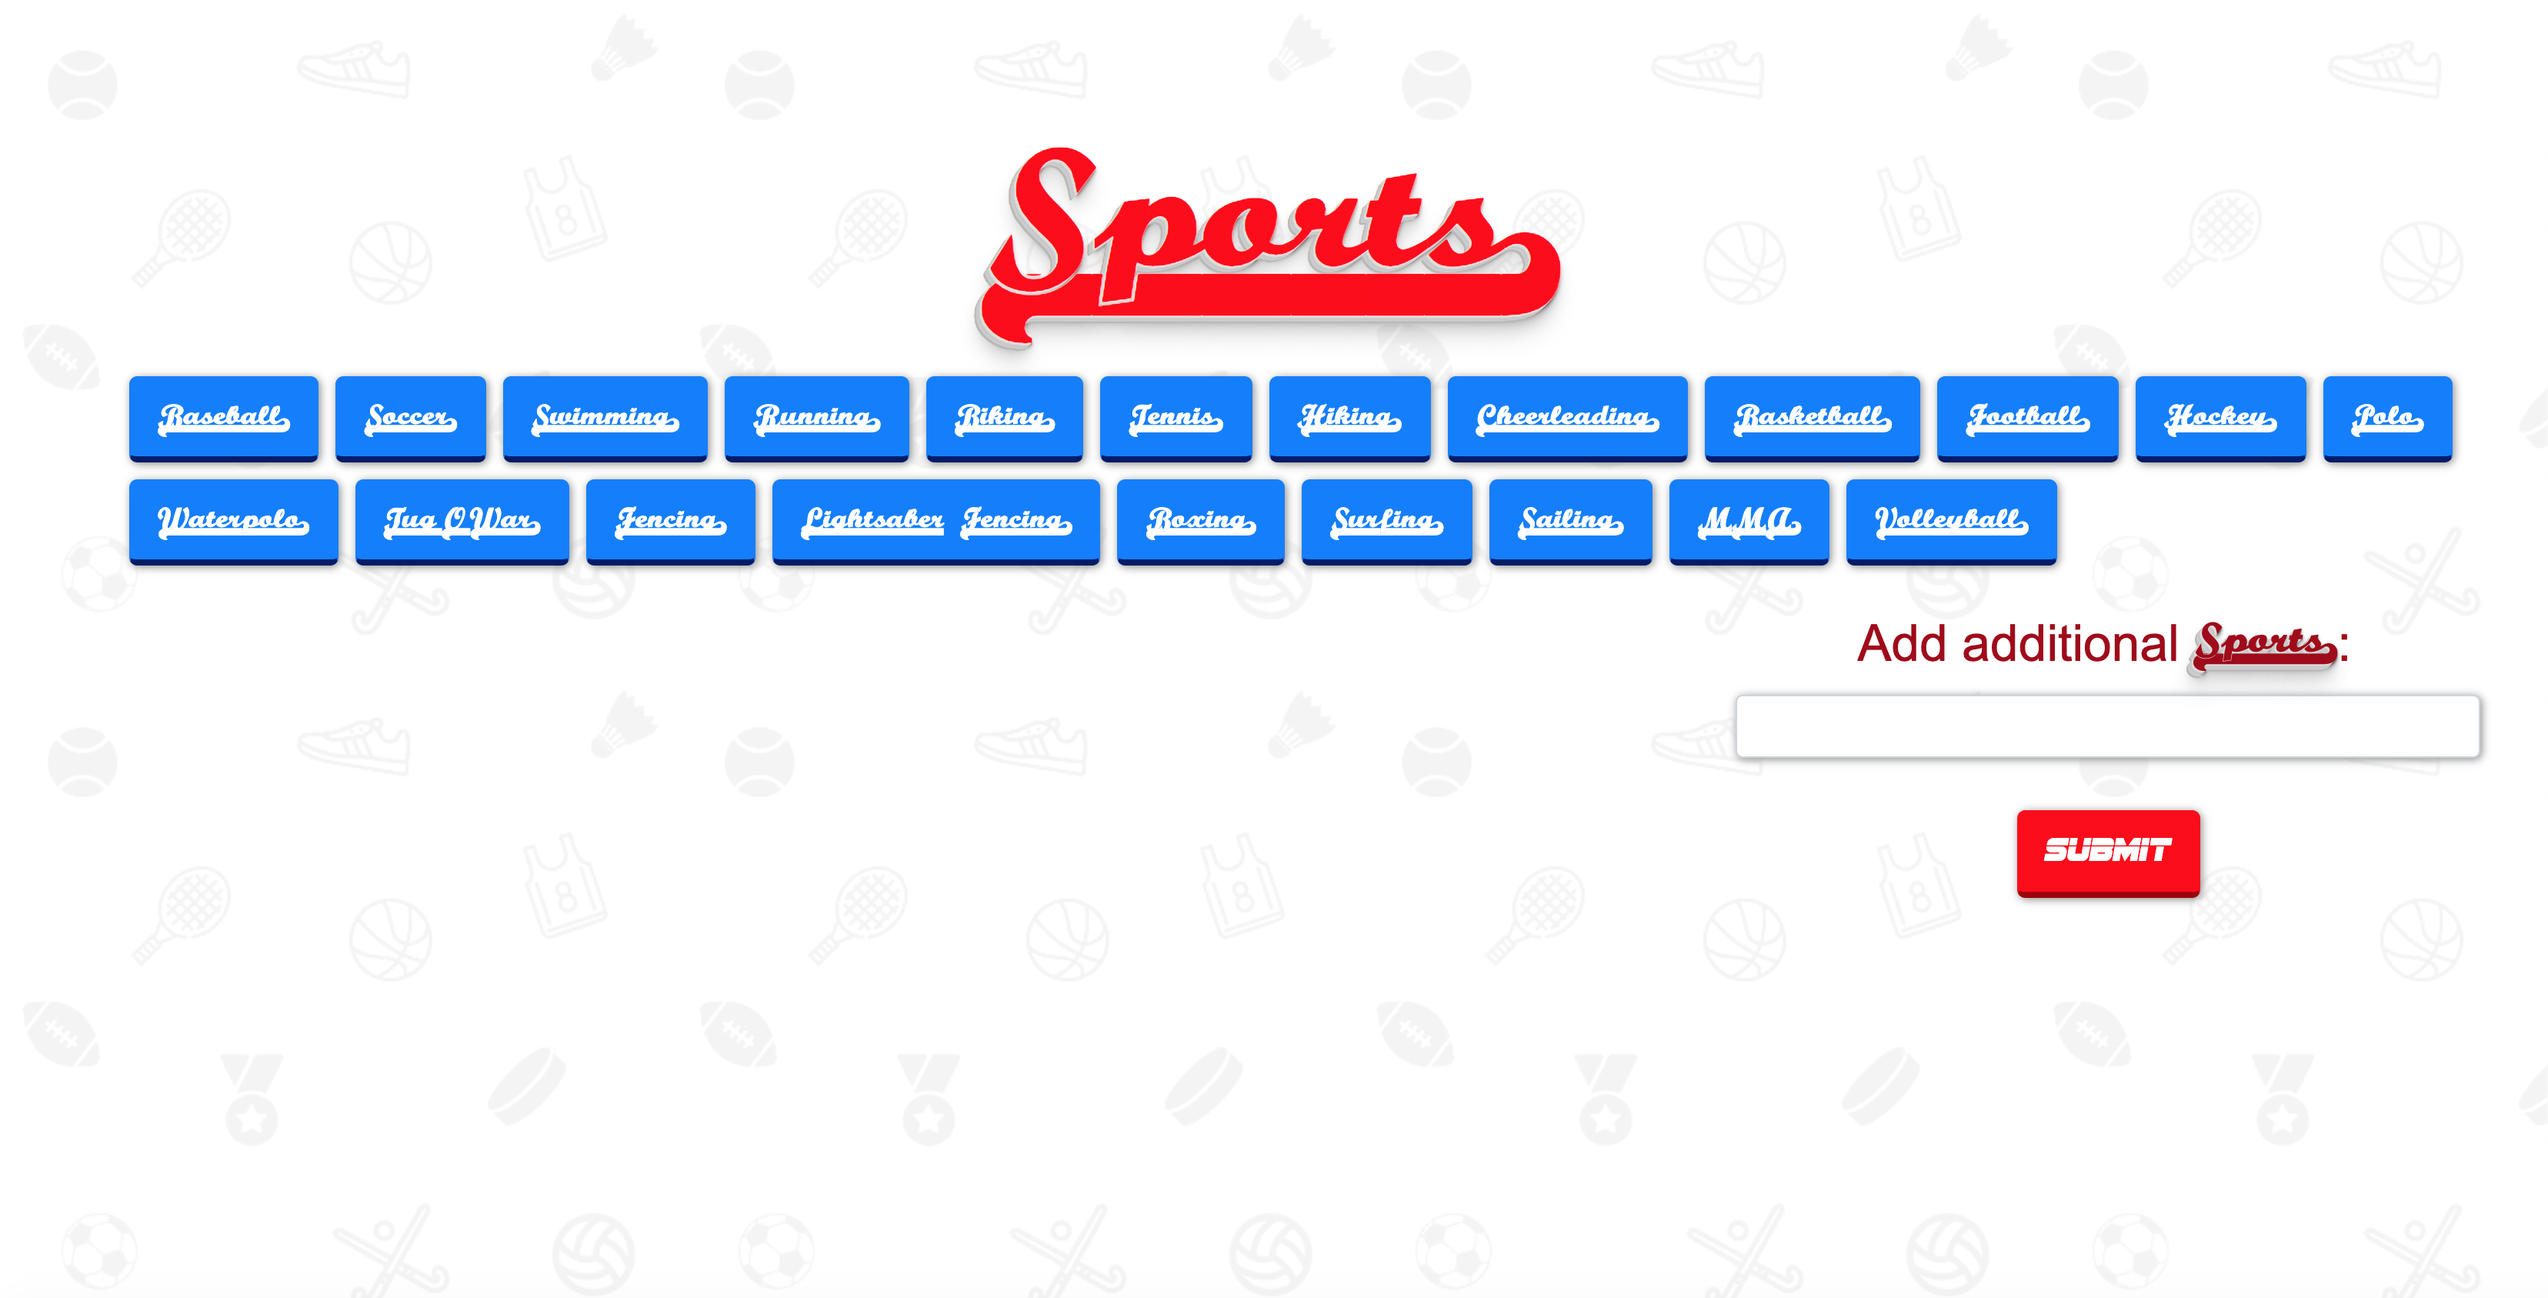
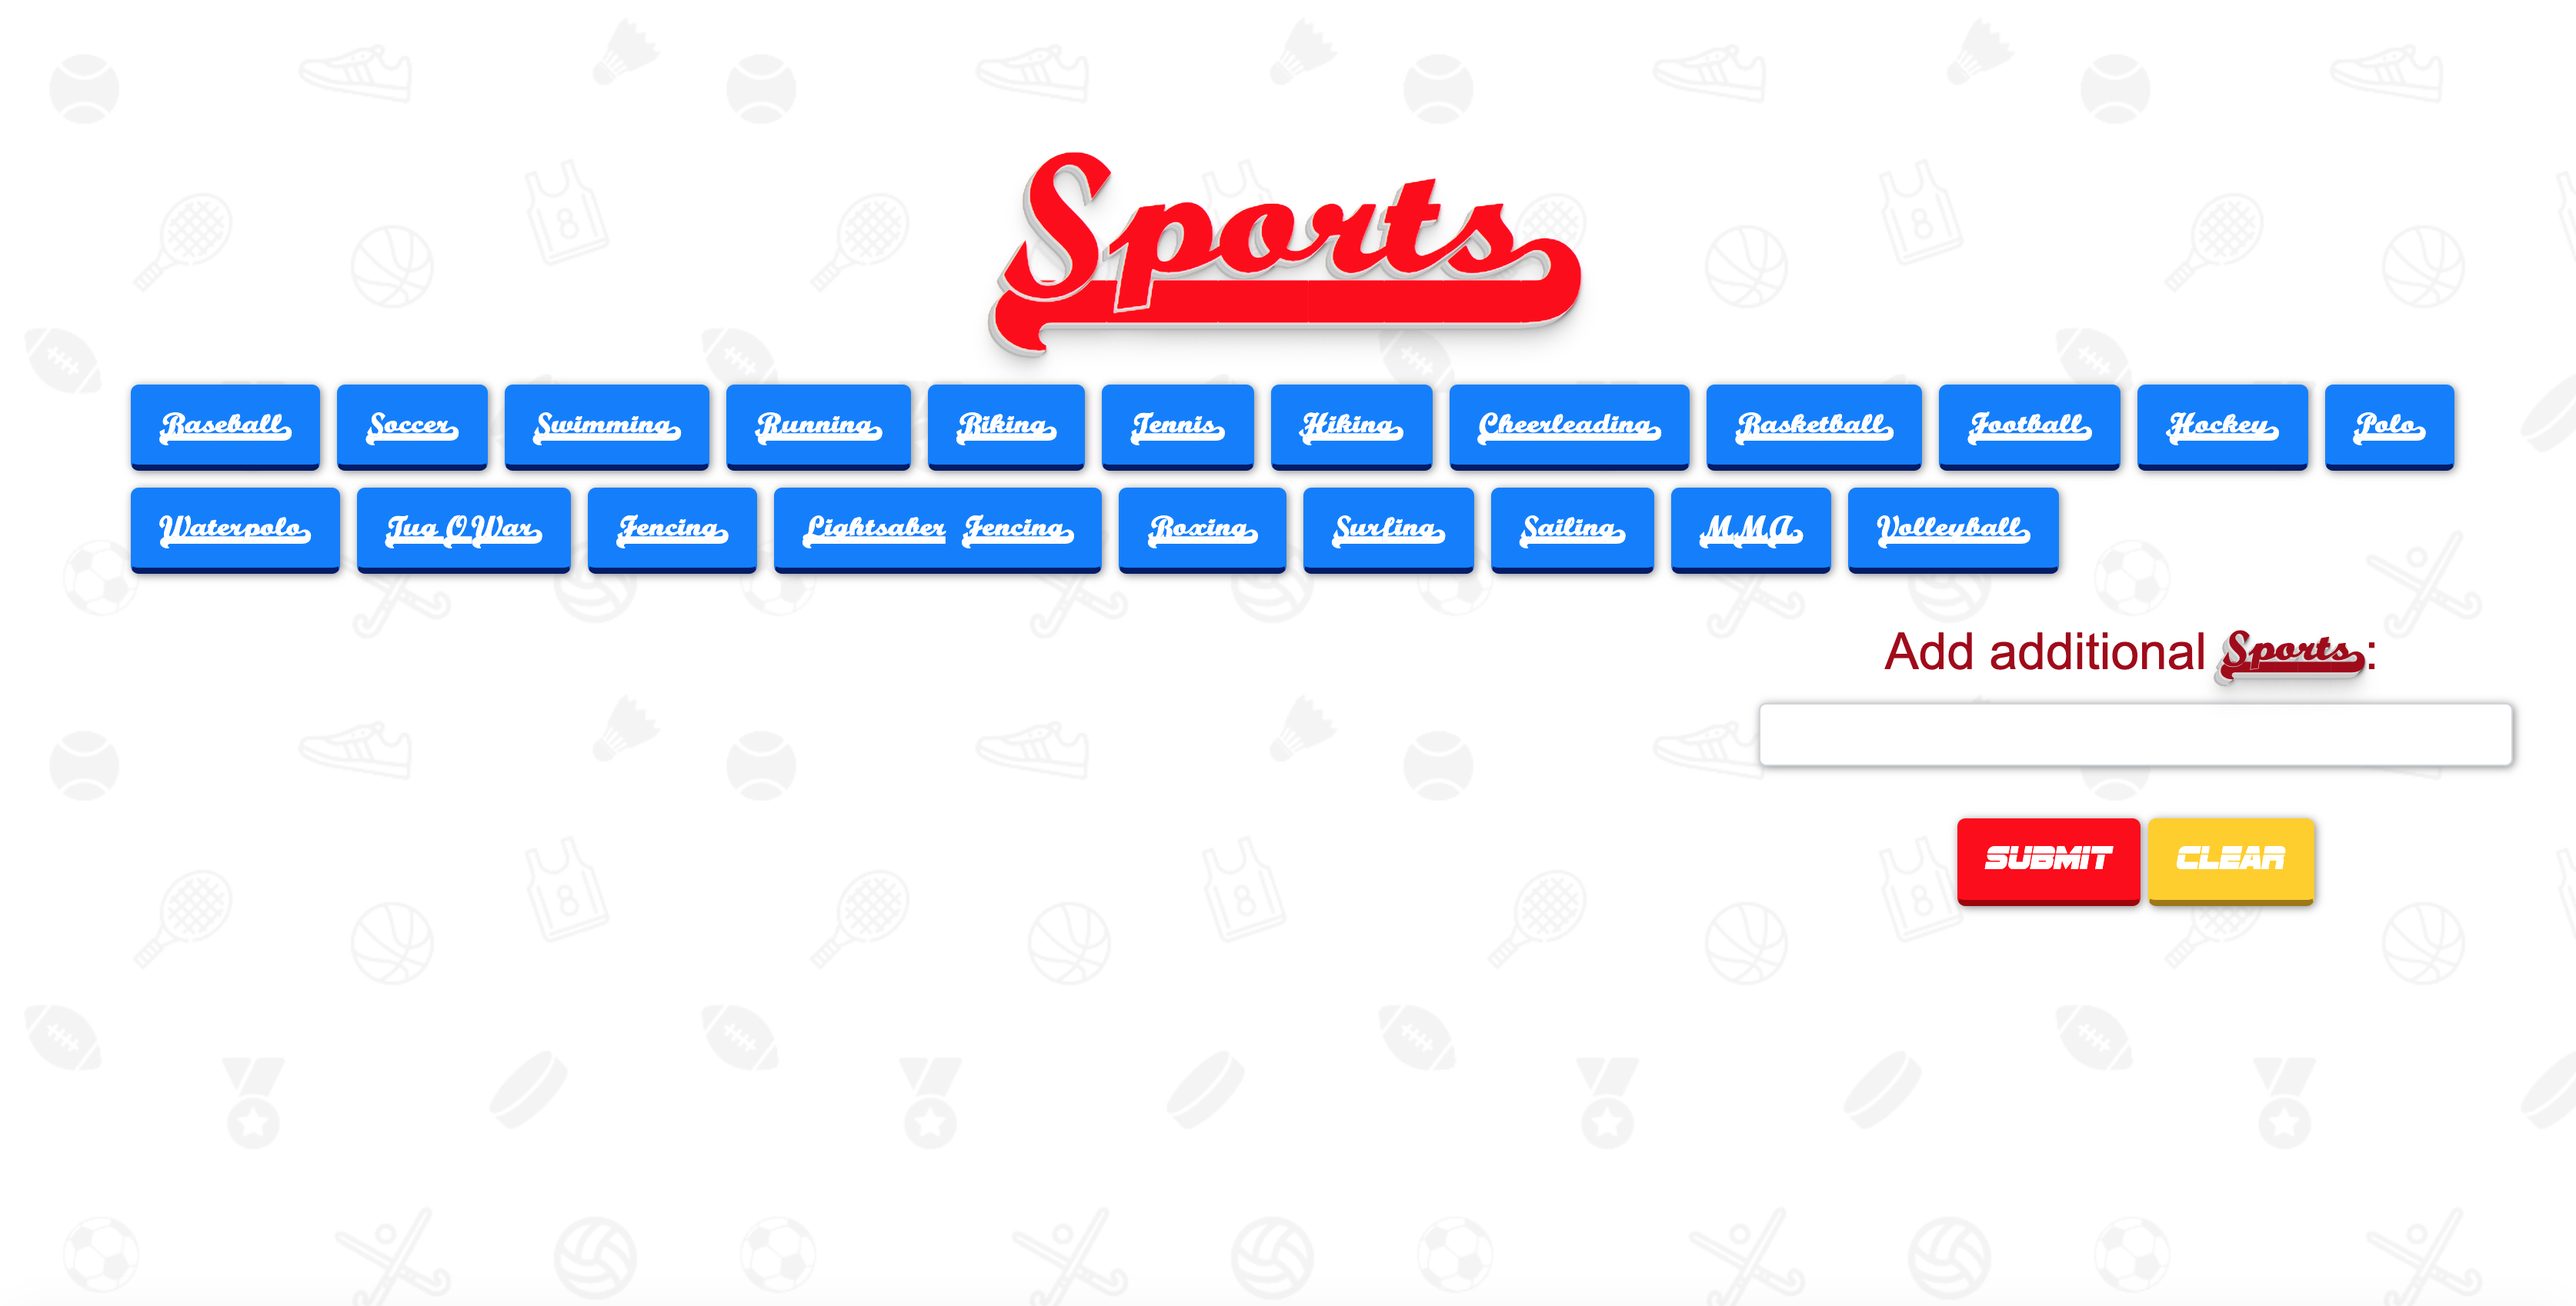
clear button add

diff --git a/assets/css/style.css b/assets/css/style.css
@@ -299,6 +299,30 @@ button {
     box-shadow: 1px 1px 5px #888888;
 }
 
+.btn-sun {
+    color: #fff;
+    background-color: #ffd000;
+    border-bottom: 4px solid #9e7900;
+    box-shadow: 1px 1px 5px #888888;
+}
+
+.btn-sun:hover, .btn-sun.active:focus, .btn-sun:focus, .open>.dropdown-toggle.btn-sun {
+    color: #fff;
+    background-color: #ffd000;
+    border-bottom: 4px solid #a56b00;
+    outline: none;
+    box-shadow: 1px 1px 5px #888888;
+}
+    
+    
+.btn-sun:active, .btn-sun.active {
+    color: #fff;
+    background-color: #ffd000;
+    border-top: 4px solid #bd8100;
+    margin-top: 2px;
+    box-shadow: 1px 1px 5px #888888;
+}
+
 .btn:focus,
 .btn:active:focus,
 .btn.active:focus {

diff --git a/index.html b/index.html
@@ -49,6 +49,7 @@
                 <input id = "userinput" class = "form-control shadowbox" type = "text"> <br><br>
 
                 <input id = "addbutton" class = "btn btn-hot btn-lg sfsports" type = "submit" value = Submit>
+                <input id = "clear" class = "btn btn-sun btn-lg sfsports" type = "button" value = Clear>
 
             </form>
     

diff --git a/assets/javascript/gif.js b/assets/javascript/gif.js
@@ -32,6 +32,11 @@ $(document).ready(function() {
 
     });  
 
+    $("#clear").on("click", function(event) {
+        event.preventDefault();
+        $("#mainimages").empty();
+    });
+
     $(document).on("click", ".itembutton", displayInfo);
 
     function displayInfo() {
